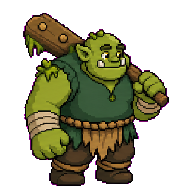
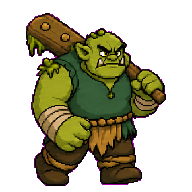
Make cartoon Ogre permanently angry

Changed region(s): [[0.0938, 0.0625, 0.9062, 0.9688]]

diff --git a/public/demo64/game-original.js b/public/demo64/game-original.js
@@ -163,9 +163,9 @@
     // --- creatures/ ---
     this.load.spritesheet('goblin', A + 'creatures/pedra/goblin_tocha/sheet.png', { frameWidth: 192, frameHeight: 192 });
     this.load.spritesheet('tnt', A + 'creatures/deserto/goblin_tnt/sheet.png', { frameWidth: 192, frameHeight: 192 });
-    this.load.image('swamp-ogre-idle', A + 'creatures/campo/swamp_ogre/idle.png?v=cartoon2');
-    this.load.spritesheet('swamp-ogre-walk', A + 'creatures/campo/swamp_ogre/walk.png?v=cartoon2', { frameWidth: 192, frameHeight: 192 });
-    this.load.spritesheet('swamp-ogre-attack', A + 'creatures/campo/swamp_ogre/attack.png?v=cartoon2', { frameWidth: 192, frameHeight: 192 });
+    this.load.image('swamp-ogre-idle', A + 'creatures/campo/swamp_ogre/idle.png?v=angry1');
+    this.load.spritesheet('swamp-ogre-walk', A + 'creatures/campo/swamp_ogre/walk.png?v=angry1', { frameWidth: 192, frameHeight: 192 });
+    this.load.spritesheet('swamp-ogre-attack', A + 'creatures/campo/swamp_ogre/attack.png?v=angry1', { frameWidth: 192, frameHeight: 192 });
     this.load.image('mossy-boar-idle', A + 'creatures/campo/mossy_boar/idle.png');
     this.load.spritesheet('mossy-boar-walk', A + 'creatures/campo/mossy_boar/walk.png', { frameWidth: 192, frameHeight: 192 });
     this.load.spritesheet('mossy-boar-attack', A + 'creatures/campo/mossy_boar/attack.png', { frameWidth: 192, frameHeight: 192 });

diff --git a/public/demo64/game.js b/public/demo64/game.js
@@ -1,7 +1,7 @@
 /* GameRPG loader */
 (function () {
   const script = document.createElement('script');
-  script.src = './game-original.js?v=ogre-cartoon-v2';
+  script.src = './game-original.js?v=ogre-angry-v1';
   script.onerror = () => console.error('[GameRPG] Falha ao carregar o jogo principal.');
   document.head.appendChild(script);
 })();

diff --git a/public/demo64/index.html b/public/demo64/index.html
@@ -581,6 +581,6 @@ addEventListener('keydown', e => {
   sync();
 })();
 </script>
-<script src="game.js?v=ogre-cartoon-v2"></script>
+<script src="game.js?v=ogre-angry-v1"></script>
 </body>
 </html>
